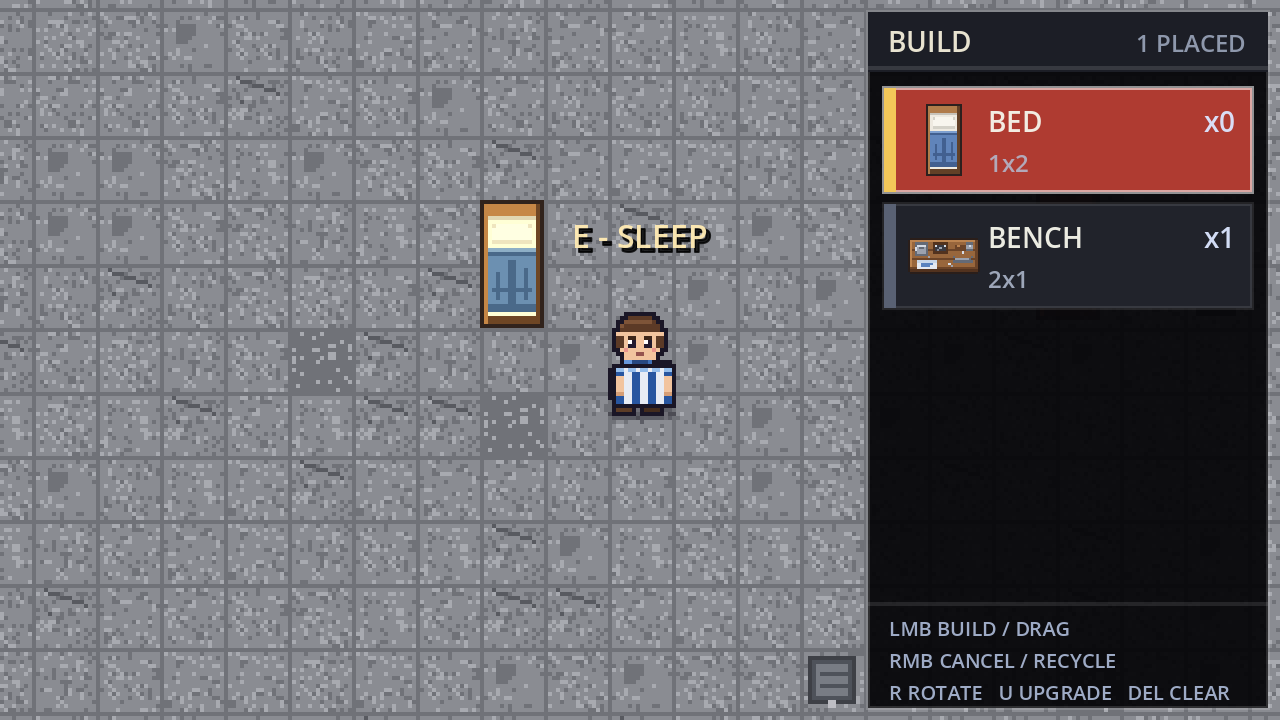
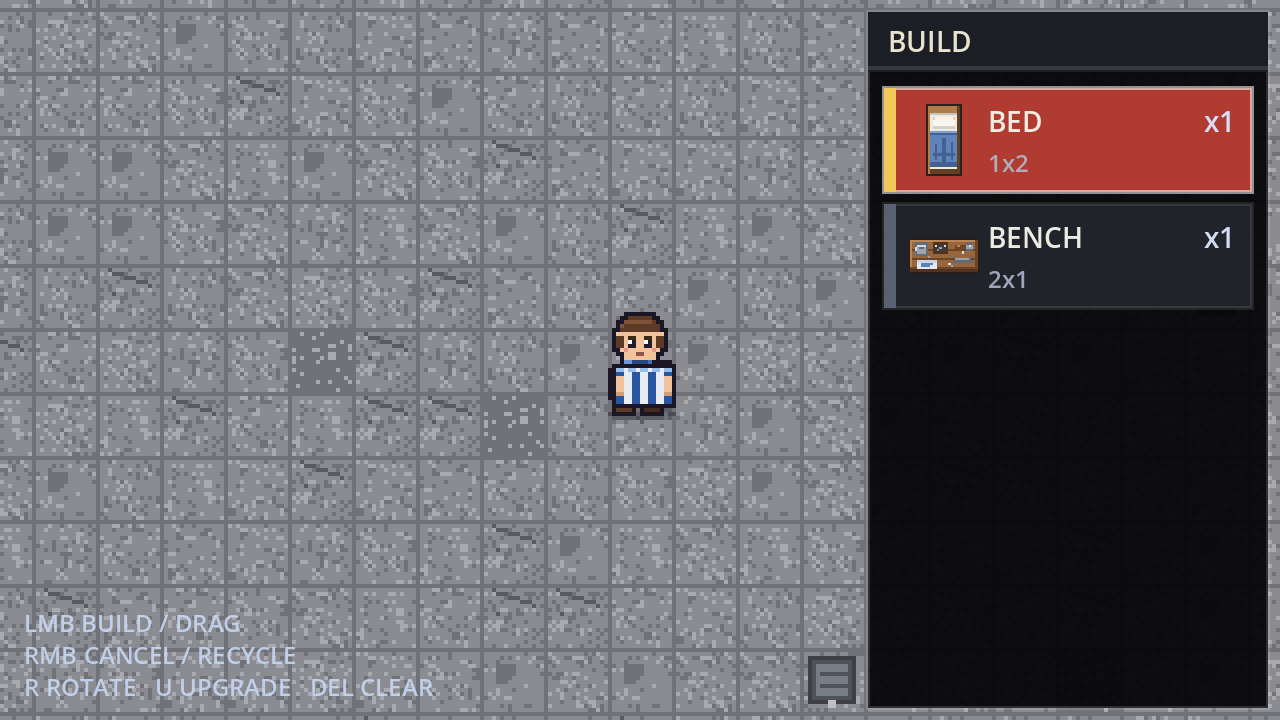
feat: 建造提示挪到左下角空白处，面板不再显示 PLACED

diff --git a/README.md b/README.md
@@ -590,9 +590,9 @@ after 3.5s-> 0 只（确认不再刷）
   **面朝上（背对镜头）时图纸抱在身前、被身体挡住，只从身体两边露出一点纸边**
   （背影帧用无手身体并清掉多余肤色，肩膀和腰带上不会有奇怪的肉色像素）；
   退出建造模式再换回空手。
-- **进建造模式不预选家具**：按 Tab 在**右侧弹出黑色建造面板**（标题栏 `BUILD` + 已放置数量，
-  下面一行件家具：图标 / 名字 / 库存 `xN` / 占地 `1x2`，选中的整行变红 + 左侧黄条，
-  面板底部是 3 行操作提示），用**鼠标左键点槽位**选了某件
+- **进建造模式不预选家具**：按 Tab 在**右侧弹出黑色建造面板**（标题栏 `BUILD`，
+  下面一行件家具：图标 / 名字 / 库存 `xN` / 占地 `1x2`，选中的整行变红 + 左侧黄条），
+  **操作提示放在左下角的空白处**（3 行小字），不再显示已放置数量；用**鼠标左键点槽位**选了某件
   家具才会出现跟随鼠标的放置预览；**放下一件后会自动取消选中**，想继续摆要再点一次槽位。
   **取消选中 = 鼠标右键点空地**（右键指着家具则是回收）。数字键 1 仍可选，只是界面不再显示数字。
 - **按 Tab 进 / 出建造模式**：不按 Tab 时就是纯走路，底部只有一行 `TAB - BUILD` 提示；
